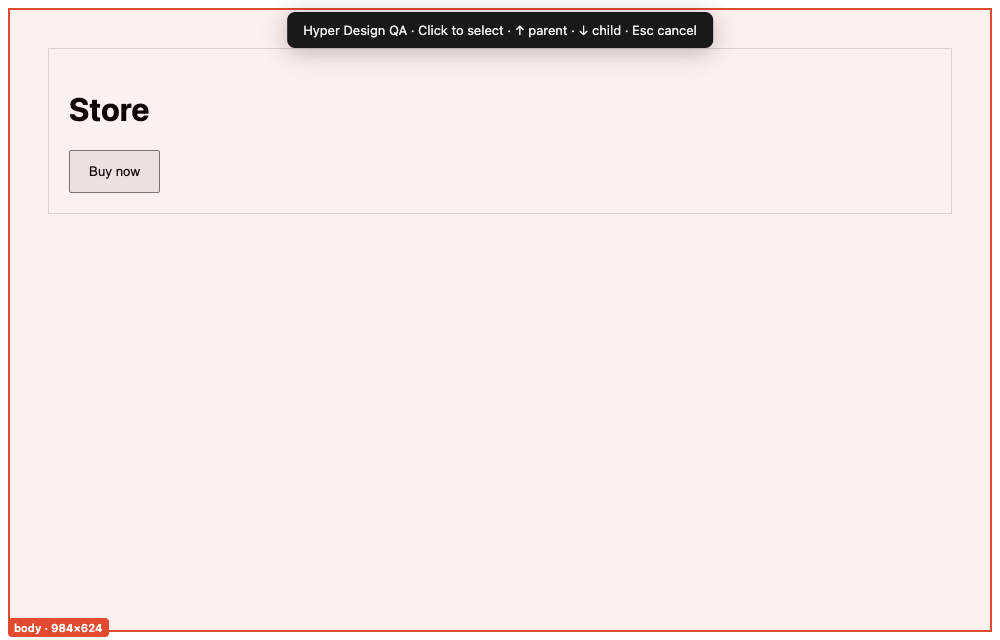
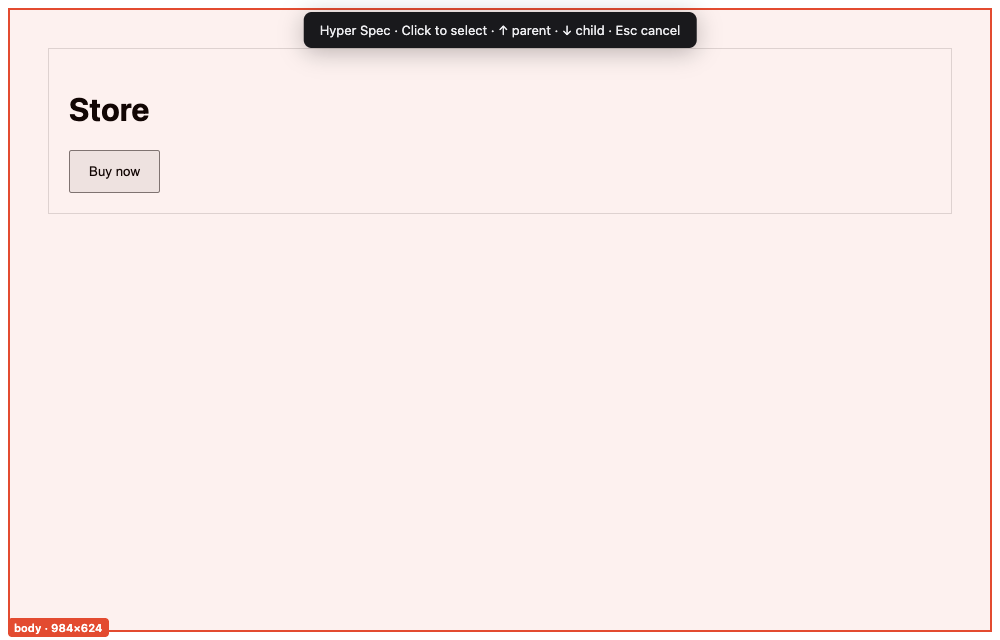
Audit fixes: lighter page listener, reconnecting panel, URL guard; add real-extension E2E test

Changed region(s): [[0.279, 0.0, 0.713, 0.0938]]

diff --git a/extension/background.js b/extension/background.js
@@ -55,9 +55,11 @@ chrome.runtime.onMessage.addListener((message, sender, respond) => {
 chrome.commands.onCommand.addListener((command,tab)=>runCommand(command,tab,true).catch(()=>{}));
 chrome.runtime.onMessage.addListener((message,sender)=>{if(message.type==='hotkey'&&sender.tab)runCommand(message.command,sender.tab,false).catch(()=>{});});
 // Page S / P keys only listen while a panel is connected.
+// The flag lives in session storage so page scripts never receive the (large) review session in change events.
 let panels=0;
-chrome.storage.local.set({panelOpen:false});
-chrome.runtime.onConnect.addListener(port=>{if(port.name!=='panel')return;panels++;chrome.storage.local.set({panelOpen:true});port.onDisconnect.addListener(()=>{panels=Math.max(0,panels-1);if(!panels)chrome.storage.local.set({panelOpen:false});});});
+chrome.storage.session.setAccessLevel({accessLevel:'TRUSTED_AND_UNTRUSTED_CONTEXTS'}).catch(()=>{});
+chrome.storage.session.set({panelOpen:false});
+chrome.runtime.onConnect.addListener(port=>{if(port.name!=='panel')return;panels++;chrome.storage.session.set({panelOpen:true});port.onDisconnect.addListener(()=>{panels=Math.max(0,panels-1);if(!panels)chrome.storage.session.set({panelOpen:false});});});
 async function runCommand(command,tab,openPanel){
   if(!tab?.id||!/^https?:|^file:/.test(tab.url||''))return;
   // Open synchronously: the shortcut's user gesture expires after the first await.
@@ -74,6 +76,7 @@ async function runCommand(command,tab,openPanel){
 // Reopen a finding: reuse a tab already on that URL, otherwise open one, then flash the element.
 chrome.runtime.onMessage.addListener((message,sender,respond)=>{
   if(message.type!=='reveal')return;
+  if(!/^(https?|file):/.test(message.url||'')){respond({error:'Only web pages can be reopened.'});return;}
   (async()=>{
     const {reviewWindowId}=await chrome.storage.session.get('reviewWindowId');
     const win=reviewWindowId?await chrome.windows.get(reviewWindowId).catch(()=>null):null;

diff --git a/tests/window.test.js b/tests/window.test.js
@@ -4,7 +4,7 @@ import vm from 'node:vm';
 import {readFileSync} from 'node:fs';
 test('pop-out reuses one native popup and remembers the reviewed window',async()=>{
  const handlers=[],storage={},created=[],focused=[];
- const chrome={commands:{onCommand:{addListener(){}}},windows:{WINDOW_ID_NONE:-1,onFocusChanged:{addListener(){}},onRemoved:{addListener(){}},getLastFocused:async()=>({id:7,type:'normal'}),create:async options=>{created.push(options);return{id:20};},update:async(id,options)=>focused.push({id,...options})},storage:{local:{set:async()=>{}},session:{get:async()=>storage,set:async values=>Object.assign(storage,values)}},runtime:{onConnect:{addListener(){}},getURL:path=>'chrome-extension://test/'+path,onMessage:{addListener:fn=>handlers.push(fn)}},sidePanel:{setPanelBehavior(){}}};
+ const chrome={commands:{onCommand:{addListener(){}}},windows:{WINDOW_ID_NONE:-1,onFocusChanged:{addListener(){}},onRemoved:{addListener(){}},getLastFocused:async()=>({id:7,type:'normal'}),create:async options=>{created.push(options);return{id:20};},update:async(id,options)=>focused.push({id,...options})},storage:{local:{set:async()=>{}},session:{setAccessLevel:async()=>{},get:async()=>storage,set:async values=>Object.assign(storage,values)}},runtime:{onConnect:{addListener(){}},getURL:path=>'chrome-extension://test/'+path,onMessage:{addListener:fn=>handlers.push(fn)}},sidePanel:{setPanelBehavior(){}}};
  vm.runInNewContext(readFileSync('extension/background.js','utf8'),{chrome});
  const request=()=>new Promise(resolve=>handlers[0]({type:'popout'},null,resolve));
  assert.equal((await request()).ok,true);await new Promise(resolve=>setImmediate(resolve));assert.equal((await request()).ok,true);assert.equal(created.length,1);assert.equal(created[0].type,'popup');assert.match(created[0].url,/floating=1/);assert.equal(storage.reviewWindowId,7);assert.equal(storage.floatingWindowId,20);assert.equal(focused[0].id,20);

diff --git a/extension/picker.js b/extension/picker.js
@@ -111,7 +111,7 @@
     document.documentElement.append(host);
     let timer, severity = 'Medium';
     const update = async patch => { try { const {draft} = await chrome.storage.local.get('draft'); if (draft?.id === id) await chrome.storage.local.set({draft: {...draft, ...patch}}); } catch {} };
-    const sync = () => { clearTimeout(timer); timer = setTimeout(() => update({comment: field.value}), 150); };
+    const sync = () => { clearTimeout(timer); timer = setTimeout(() => update({comment: field.value}), 300); };
     const setPriority = p => { severity = p; for (const b of root.querySelectorAll('.prio button')) b.setAttribute('aria-checked', String(b.dataset.p === p)); update({severity: p}); };
     for (const b of root.querySelectorAll('.prio button')) b.addEventListener('click', () => { setPriority(b.dataset.p); field.focus(); });
     const close = () => { clearTimeout(timer); host.remove(); window.removeEventListener('pointerdown', outside, true); delete window.__hyperQAToast; };
@@ -137,6 +137,9 @@
     // Keep page shortcuts from reacting while the reviewer types.
     for (const type of ['keyup','keypress']) field.addEventListener(type, e => e.stopPropagation());
     window.addEventListener('pointerdown', outside, true);
+    // The outline is fixed-position, so hide it once the page scrolls away from the capture.
+    const hideMark = () => { mark.style.display = 'none'; };
+    window.addEventListener('scroll', hideMark, {capture: true, passive: true, once: true});
     window.__hyperQAToast = close;
     // Pull focus back if the panel grabs it in the first moments after capture.
     let touched = false;

diff --git a/extension/panel.js b/extension/panel.js
@@ -189,5 +189,6 @@ $('editor').addEventListener('click',e=>{if(!e.target.closest('button,input,text
 $('comment').addEventListener('keydown',e=>{if(hyperFormat.key($('comment'),e))e.preventDefault();});
 $('comment').dataset.hfMax=260;hyperFormat.live($('comment'));
 renderTags();
-chrome.runtime.connect?.({name:'panel'});
+// Reconnect if the background worker restarts, so page S / P keys keep working.
+(function connect(){const port=chrome.runtime.connect?.({name:'panel'});port?.onDisconnect.addListener(()=>setTimeout(connect,300));})();
 const stored=await chrome.storage.local.get(['session','draft','previousSession','theme']);if(stored.theme)applyTheme(stored.theme);hasPrevious=!!stored.previousSession;session=stored.session||fresh();if(!stored.session)await persist();render();if(stored.draft)await showDraft(stored.draft);

diff --git a/extension/hotkeys.js b/extension/hotkeys.js
@@ -2,8 +2,8 @@
 (() => {
   if (window.__hyperQAHotkeys) return; window.__hyperQAHotkeys = true;
   let active = false;
-  chrome.storage.local.get('panelOpen').then(d => { active = !!d.panelOpen; }).catch(() => {});
-  chrome.storage.onChanged.addListener((changes, area) => { if (area === 'local' && changes.panelOpen) active = !!changes.panelOpen.newValue; });
+  chrome.storage.session.get('panelOpen').then(d => { active = !!d.panelOpen; }).catch(() => {});
+  chrome.storage.session.onChanged.addListener(changes => { if (changes.panelOpen) active = !!changes.panelOpen.newValue; });
   window.addEventListener('keydown', e => {
     if (!active || e.repeat || e.metaKey || e.ctrlKey || e.altKey || e.isComposing || window.__hyperQA) return;
     const el = e.composedPath()[0];

diff --git a/CHANGELOG.md b/CHANGELOG.md
@@ -55,6 +55,10 @@ All notable changes to Hyper Spec (formerly Hyper-Design-QA). Versions match `ex
 - Copied Markdown says where to find screenshots instead of linking to images that aren't there.
 
 ### Improvements
+- Faster pages: the page shortcut listener no longer receives the review session (including screenshots) on every change.
+- Page S/P keys keep working if the browser restarts the extension's background worker.
+- Reopening a finding only opens web pages; the note-box outline hides once the page scrolls.
+- New end-to-end test with the real extension (`npm run test:extension`).
 - Element name is auto-detected and now tucked under **Element details**; the editor shows only what you need to write.
 - The on-page note box keeps focus after capture, works on sites with strict security policies, and opens even if the background worker hasn't reloaded yet.
 - Discarding a capture no longer asks for confirmation. It can be undone instead.

diff --git a/README.md b/README.md
@@ -117,6 +117,7 @@ npm install
 npm test
 npm run check
 npm run test:browser
+npm run test:extension   # real unpacked extension in Playwright's Chromium (set CHROMIUM_PATH if needed)
 ```
 
 The browser suite uses an installed Chrome executable on macOS. Set `CHROME_PATH` on other systems. It tests the rendered panel with mocked Chrome APIs and tests the real element picker against a fixture. It covers capture, required comments, saving, links, reload persistence, editing, delete/undo, keyboard shortcuts, the inline note box, ZIP downloads, narrow layouts, selection metadata, and Escape cancellation. The report tests cover Markdown formatting and ZIP structure. Browser permission prompts, side-panel integration, and real `captureVisibleTab` still require a manual loaded-extension smoke test.
